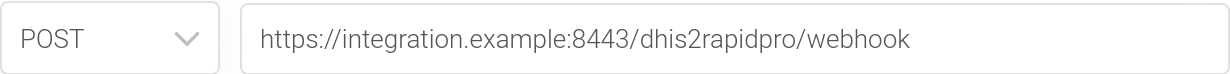
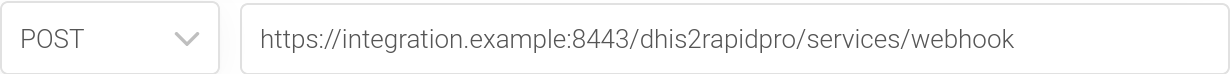
feat: allow base path to configured (#84)
move `login`, `logout`, and `management` endpoints to `dhis2rapidpro` path

BREAKING CHANGE: Camel endpoints like webhook fall under `/services` path

Changed region(s): [[0.6488, 0.4054, 0.8341, 0.6486]]

diff --git a/src/test/java/org/hisp/dhis/integration/rapidpro/ExtensibilityTestCase.java b/src/test/java/org/hisp/dhis/integration/rapidpro/ExtensibilityTestCase.java
@@ -50,7 +50,7 @@ public class ExtensibilityTestCase extends AbstractFunctionalTestCase
     {
         System.setProperty( "sync.rapidpro.contacts", "true" );
         System.setProperty( "report.destination.endpoint",
-            "http://localhost:" + serverPort + "/dhis2rapidpro/legacy" );
+            "http://localhost:" + serverPort + "/dhis2rapidpro/services/legacy" );
 
         camelContext.getRegistry().bind( "selfSignedHttpClientConfigurer", new SelfSignedHttpClientConfigurer() );
         camelContext.addRoutes( new RouteBuilder()
@@ -88,7 +88,7 @@ public class ExtensibilityTestCase extends AbstractFunctionalTestCase
             Charset.defaultCharset() );
         producerTemplate.requestBody(
             dhis2RapidProHttpEndpointUri
-                + "/webhook?aParam=aValue&dataSetCode=MAL_YEARLY&httpClientConfigurer=#selfSignedHttpClientConfigurer&httpMethod=POST",
+                + "/services/webhook?aParam=aValue&dataSetCode=MAL_YEARLY&httpClientConfigurer=#selfSignedHttpClientConfigurer&httpMethod=POST",
             String.format( webhookMessage, contactUuid ), String.class );
 
         spyEndpoint.await( 10, TimeUnit.SECONDS );

diff --git a/src/test/java/org/hisp/dhis/integration/rapidpro/security/WebhookTokenAuthFunctionalTestCase.java b/src/test/java/org/hisp/dhis/integration/rapidpro/security/WebhookTokenAuthFunctionalTestCase.java
@@ -73,7 +73,7 @@ public class WebhookTokenAuthFunctionalTestCase extends AbstractFunctionalTestCa
 
         producerTemplate.sendBodyAndHeader(
             dhis2RapidProHttpEndpointUri
-                + "/webhook?dataSetCode=MAL_YEARLY&httpClientConfigurer=#selfSignedHttpClientConfigurer&httpMethod=POST",
+                + "/services/webhook?dataSetCode=MAL_YEARLY&httpClientConfigurer=#selfSignedHttpClientConfigurer&httpMethod=POST",
             String.format( webhookMessage, contactUuid ), "Authorization",
             "Token secret" );
     }
@@ -94,7 +94,7 @@ public class WebhookTokenAuthFunctionalTestCase extends AbstractFunctionalTestCa
 
         assertThrows( CamelExecutionException.class, () -> producerTemplate.sendBodyAndHeader(
             dhis2RapidProHttpEndpointUri
-                + "/webhook?dataSetCode=MAL_YEARLY&httpClientConfigurer=#selfSignedHttpClientConfigurer&httpMethod=POST",
+                + "/services/webhook?dataSetCode=MAL_YEARLY&httpClientConfigurer=#selfSignedHttpClientConfigurer&httpMethod=POST",
             String.format( webhookMessage, contactUuid ), "Authorization",
             "Token wrong" ) );
     }

diff --git a/src/main/java/org/hisp/dhis/integration/rapidpro/security/ManagementDefaultSecurityConfig.java b/src/main/java/org/hisp/dhis/integration/rapidpro/security/ManagementDefaultSecurityConfig.java
@@ -44,13 +44,11 @@ public class ManagementDefaultSecurityConfig
         Exception
     {
         return http.requestMatchers()
-            .antMatchers( "/management/**", "/dhis2rapidpro/sync", "/dhis2rapidpro/scan", "/dhis2rapidpro/reminders",
-                "/login", "/logout" )
+            .antMatchers( "/management/**", "/services/tasks/**", "/login", "/logout" )
             .and().authorizeRequests()
             .anyRequest().authenticated()
             .and().csrf()
-            .ignoringAntMatchers( "/management/h2-console/**", "/dhis2rapidpro/sync", "/dhis2rapidpro/scan",
-                "/dhis2rapidpro/reminders" )
+            .ignoringAntMatchers( "/management/h2-console/**", "/services/tasks/**" )
             .and()
             .formLogin()
             .and()

diff --git a/src/test/java/org/hisp/dhis/integration/rapidpro/WebhookFunctionalTestCase.java b/src/test/java/org/hisp/dhis/integration/rapidpro/WebhookFunctionalTestCase.java
@@ -61,7 +61,7 @@ public class WebhookFunctionalTestCase extends AbstractFunctionalTestCase
         producerTemplate.setDefaultEndpoint( camelContext.getEndpoint( dhis2RapidProHttpEndpointUri ) );
         Exchange responseExchange = producerTemplate.request(
             dhis2RapidProHttpEndpointUri
-                + "/webhook?dataSetCode=MAL_YEARLY&httpClientConfigurer=#selfSignedHttpClientConfigurer&httpMethod=POST",
+                + "/services/webhook?dataSetCode=MAL_YEARLY&httpClientConfigurer=#selfSignedHttpClientConfigurer&httpMethod=POST",
             exchange -> exchange.getMessage().setBody( String.format(  webhookMessage, contactUuid ) ) );
 
         assertEquals( "", responseExchange.getMessage().getBody( String.class ) );

diff --git a/src/test/java/org/hisp/dhis/integration/rapidpro/route/SyncRouteBuilderFunctionalTestCase.java b/src/test/java/org/hisp/dhis/integration/rapidpro/route/SyncRouteBuilderFunctionalTestCase.java
@@ -125,7 +125,7 @@ public class SyncRouteBuilderFunctionalTestCase extends AbstractFunctionalTestCa
 
         assertPreCondition();
         String response = producerTemplate.requestBodyAndHeader(
-            dhis2RapidProHttpEndpointUri + "/sync?httpClientConfigurer=#selfSignedHttpClientConfigurer",
+            dhis2RapidProHttpEndpointUri + "/services/tasks/sync?httpClientConfigurer=#selfSignedHttpClientConfigurer",
             null,
             "Authorization",
             "Basic " + Base64.getEncoder().encodeToString( "dhis2rapidpro:dhis2rapidpro".getBytes() ), String.class );

diff --git a/src/test/java/org/hisp/dhis/integration/rapidpro/H2WebConsoleTestCase.java b/src/test/java/org/hisp/dhis/integration/rapidpro/H2WebConsoleTestCase.java
@@ -55,7 +55,7 @@ public class H2WebConsoleTestCase
     public void beforeEach()
     {
         h2RequestSpec = new RequestSpecBuilder().setBaseUri(
-                String.format( "http://localhost:%s/management/h2-console", serverPort ) ).setRelaxedHTTPSValidation()
+                String.format( "http://localhost:%s/dhis2rapidpro/management/h2-console", serverPort ) ).setRelaxedHTTPSValidation()
             .build();
     }
 

diff --git a/src/test/java/org/hisp/dhis/integration/rapidpro/HawtioWebConsoleTestCase.java b/src/test/java/org/hisp/dhis/integration/rapidpro/HawtioWebConsoleTestCase.java
@@ -55,7 +55,7 @@ public class HawtioWebConsoleTestCase
     public void beforeEach()
     {
         hawtioRequestSpec = new RequestSpecBuilder().setBaseUri(
-            String.format( "http://localhost:%s/management/hawtio", serverPort ) ).setRelaxedHTTPSValidation().build();
+            String.format( "http://localhost:%s/dhis2rapidpro/management/hawtio", serverPort ) ).setRelaxedHTTPSValidation().build();
     }
 
     @Test

diff --git a/src/test/java/org/hisp/dhis/integration/rapidpro/ManagementLogoutPageTestCase.java b/src/test/java/org/hisp/dhis/integration/rapidpro/ManagementLogoutPageTestCase.java
@@ -55,7 +55,7 @@ public class ManagementLogoutPageTestCase
     public void beforeEach()
     {
         logoutPageRequestSpec = new RequestSpecBuilder().setBaseUri(
-            String.format( "http://localhost:%s/logout", serverPort ) ).setRelaxedHTTPSValidation().build();
+            String.format( "http://localhost:%s/dhis2rapidpro/logout", serverPort ) ).setRelaxedHTTPSValidation().build();
     }
 
     @Test

diff --git a/src/test/java/org/hisp/dhis/integration/rapidpro/ManagementLoginPageTestCase.java b/src/test/java/org/hisp/dhis/integration/rapidpro/ManagementLoginPageTestCase.java
@@ -55,7 +55,7 @@ public class ManagementLoginPageTestCase
     public void doBeforeEach()
     {
         loginPageRequestSpec = new RequestSpecBuilder().setBaseUri(
-            String.format( "http://localhost:%s/login", serverPort ) ).setRelaxedHTTPSValidation().build();
+            String.format( "http://localhost:%s/dhis2rapidpro/login", serverPort ) ).setRelaxedHTTPSValidation().build();
     }
 
     @Test

diff --git a/src/main/java/org/hisp/dhis/integration/rapidpro/route/ReminderRouteBuilder.java b/src/main/java/org/hisp/dhis/integration/rapidpro/route/ReminderRouteBuilder.java
@@ -47,7 +47,7 @@ public class ReminderRouteBuilder extends AbstractRouteBuilder
     @Override
     protected void doConfigure()
     {
-        from( "servlet:reminders?muteException=true" )
+        from( "servlet:tasks/reminders?muteException=true" )
             .removeHeaders( "*" )
             .to( "direct:reminders" )
             .setHeader( Exchange.CONTENT_TYPE, constant( "text/html" ) )

diff --git a/src/main/java/org/hisp/dhis/integration/rapidpro/route/PullReportsRouteBuilder.java b/src/main/java/org/hisp/dhis/integration/rapidpro/route/PullReportsRouteBuilder.java
@@ -45,7 +45,7 @@ public class PullReportsRouteBuilder extends AbstractRouteBuilder
     @Override
     protected void doConfigure()
     {
-        from( "servlet:scan?muteException=true" )
+        from( "servlet:tasks/scan?muteException=true" )
             .removeHeaders( "*" )
             .to( "direct:pull" )
             .setHeader( "Content-Type", constant( "text/html" ) )

diff --git a/src/main/java/org/hisp/dhis/integration/rapidpro/route/SyncRouteBuilder.java b/src/main/java/org/hisp/dhis/integration/rapidpro/route/SyncRouteBuilder.java
@@ -56,7 +56,7 @@ public class SyncRouteBuilder extends AbstractRouteBuilder
     @Override
     public void doConfigure()
     {
-        from( "servlet:sync?muteException=true" )
+        from( "servlet:tasks/sync?muteException=true" )
             .precondition( "{{sync.rapidpro.contacts}}" )
             .removeHeaders( "*" )
             .to( "direct:sync" )
